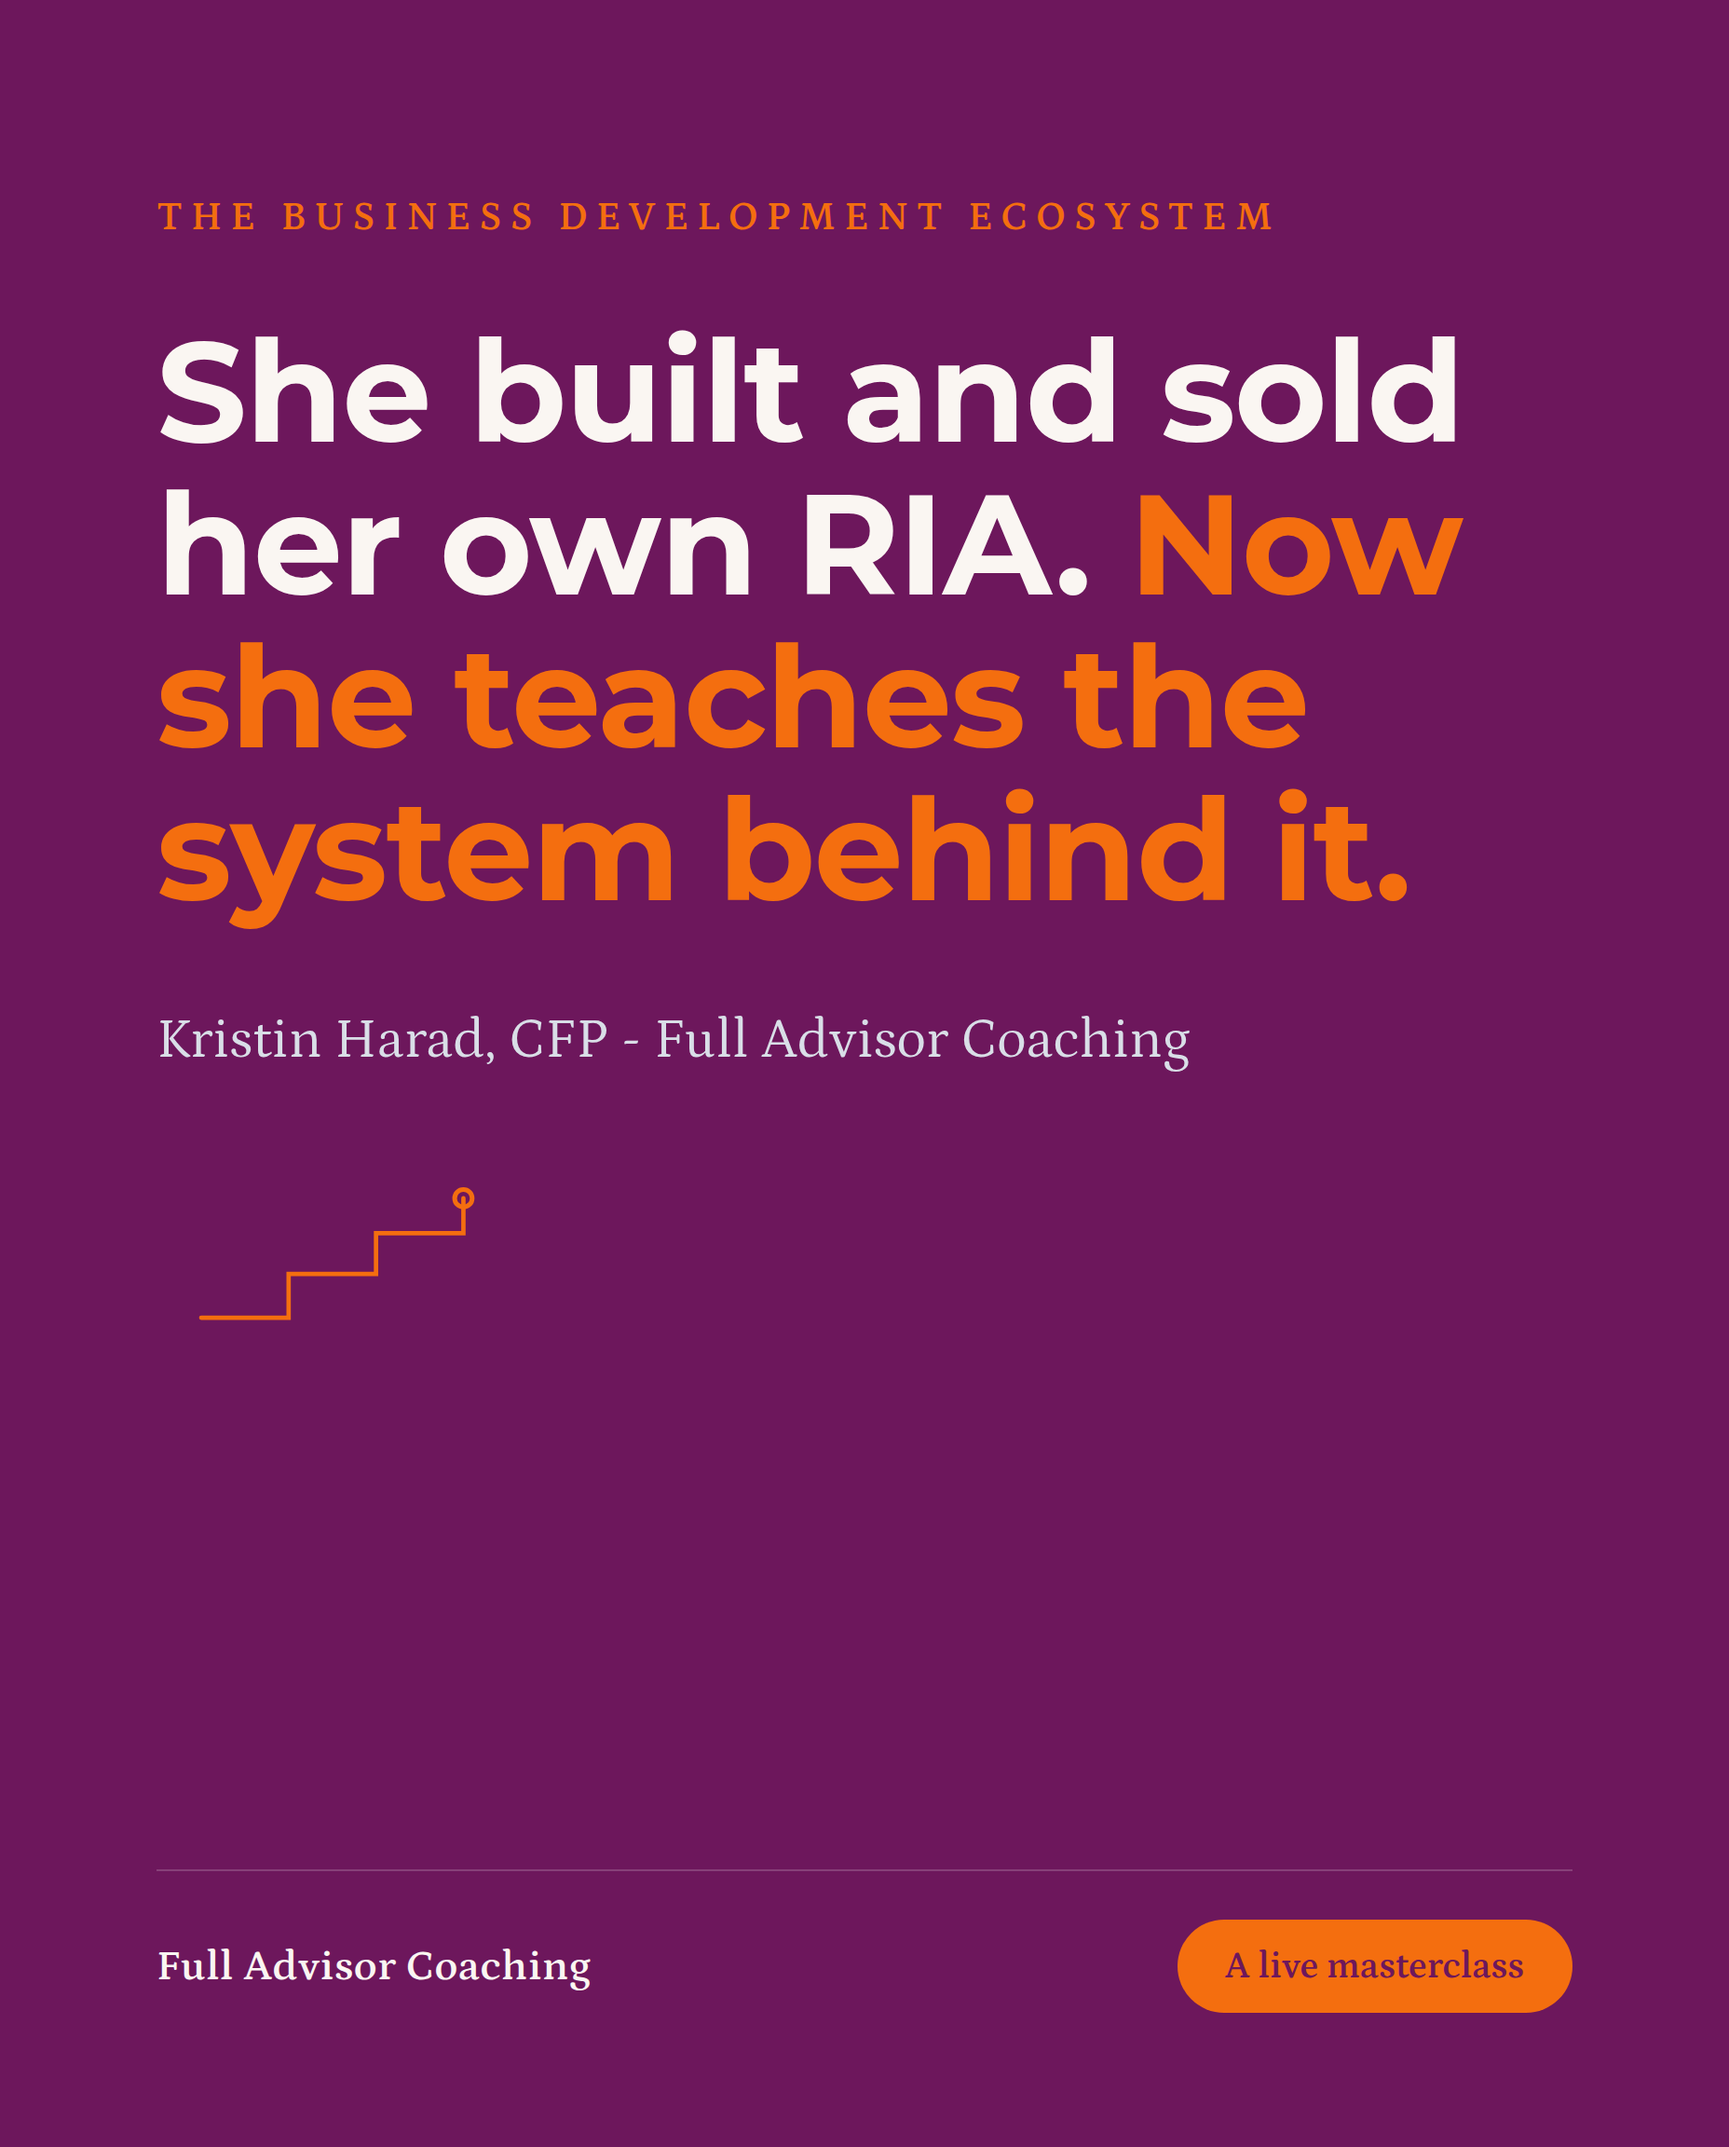
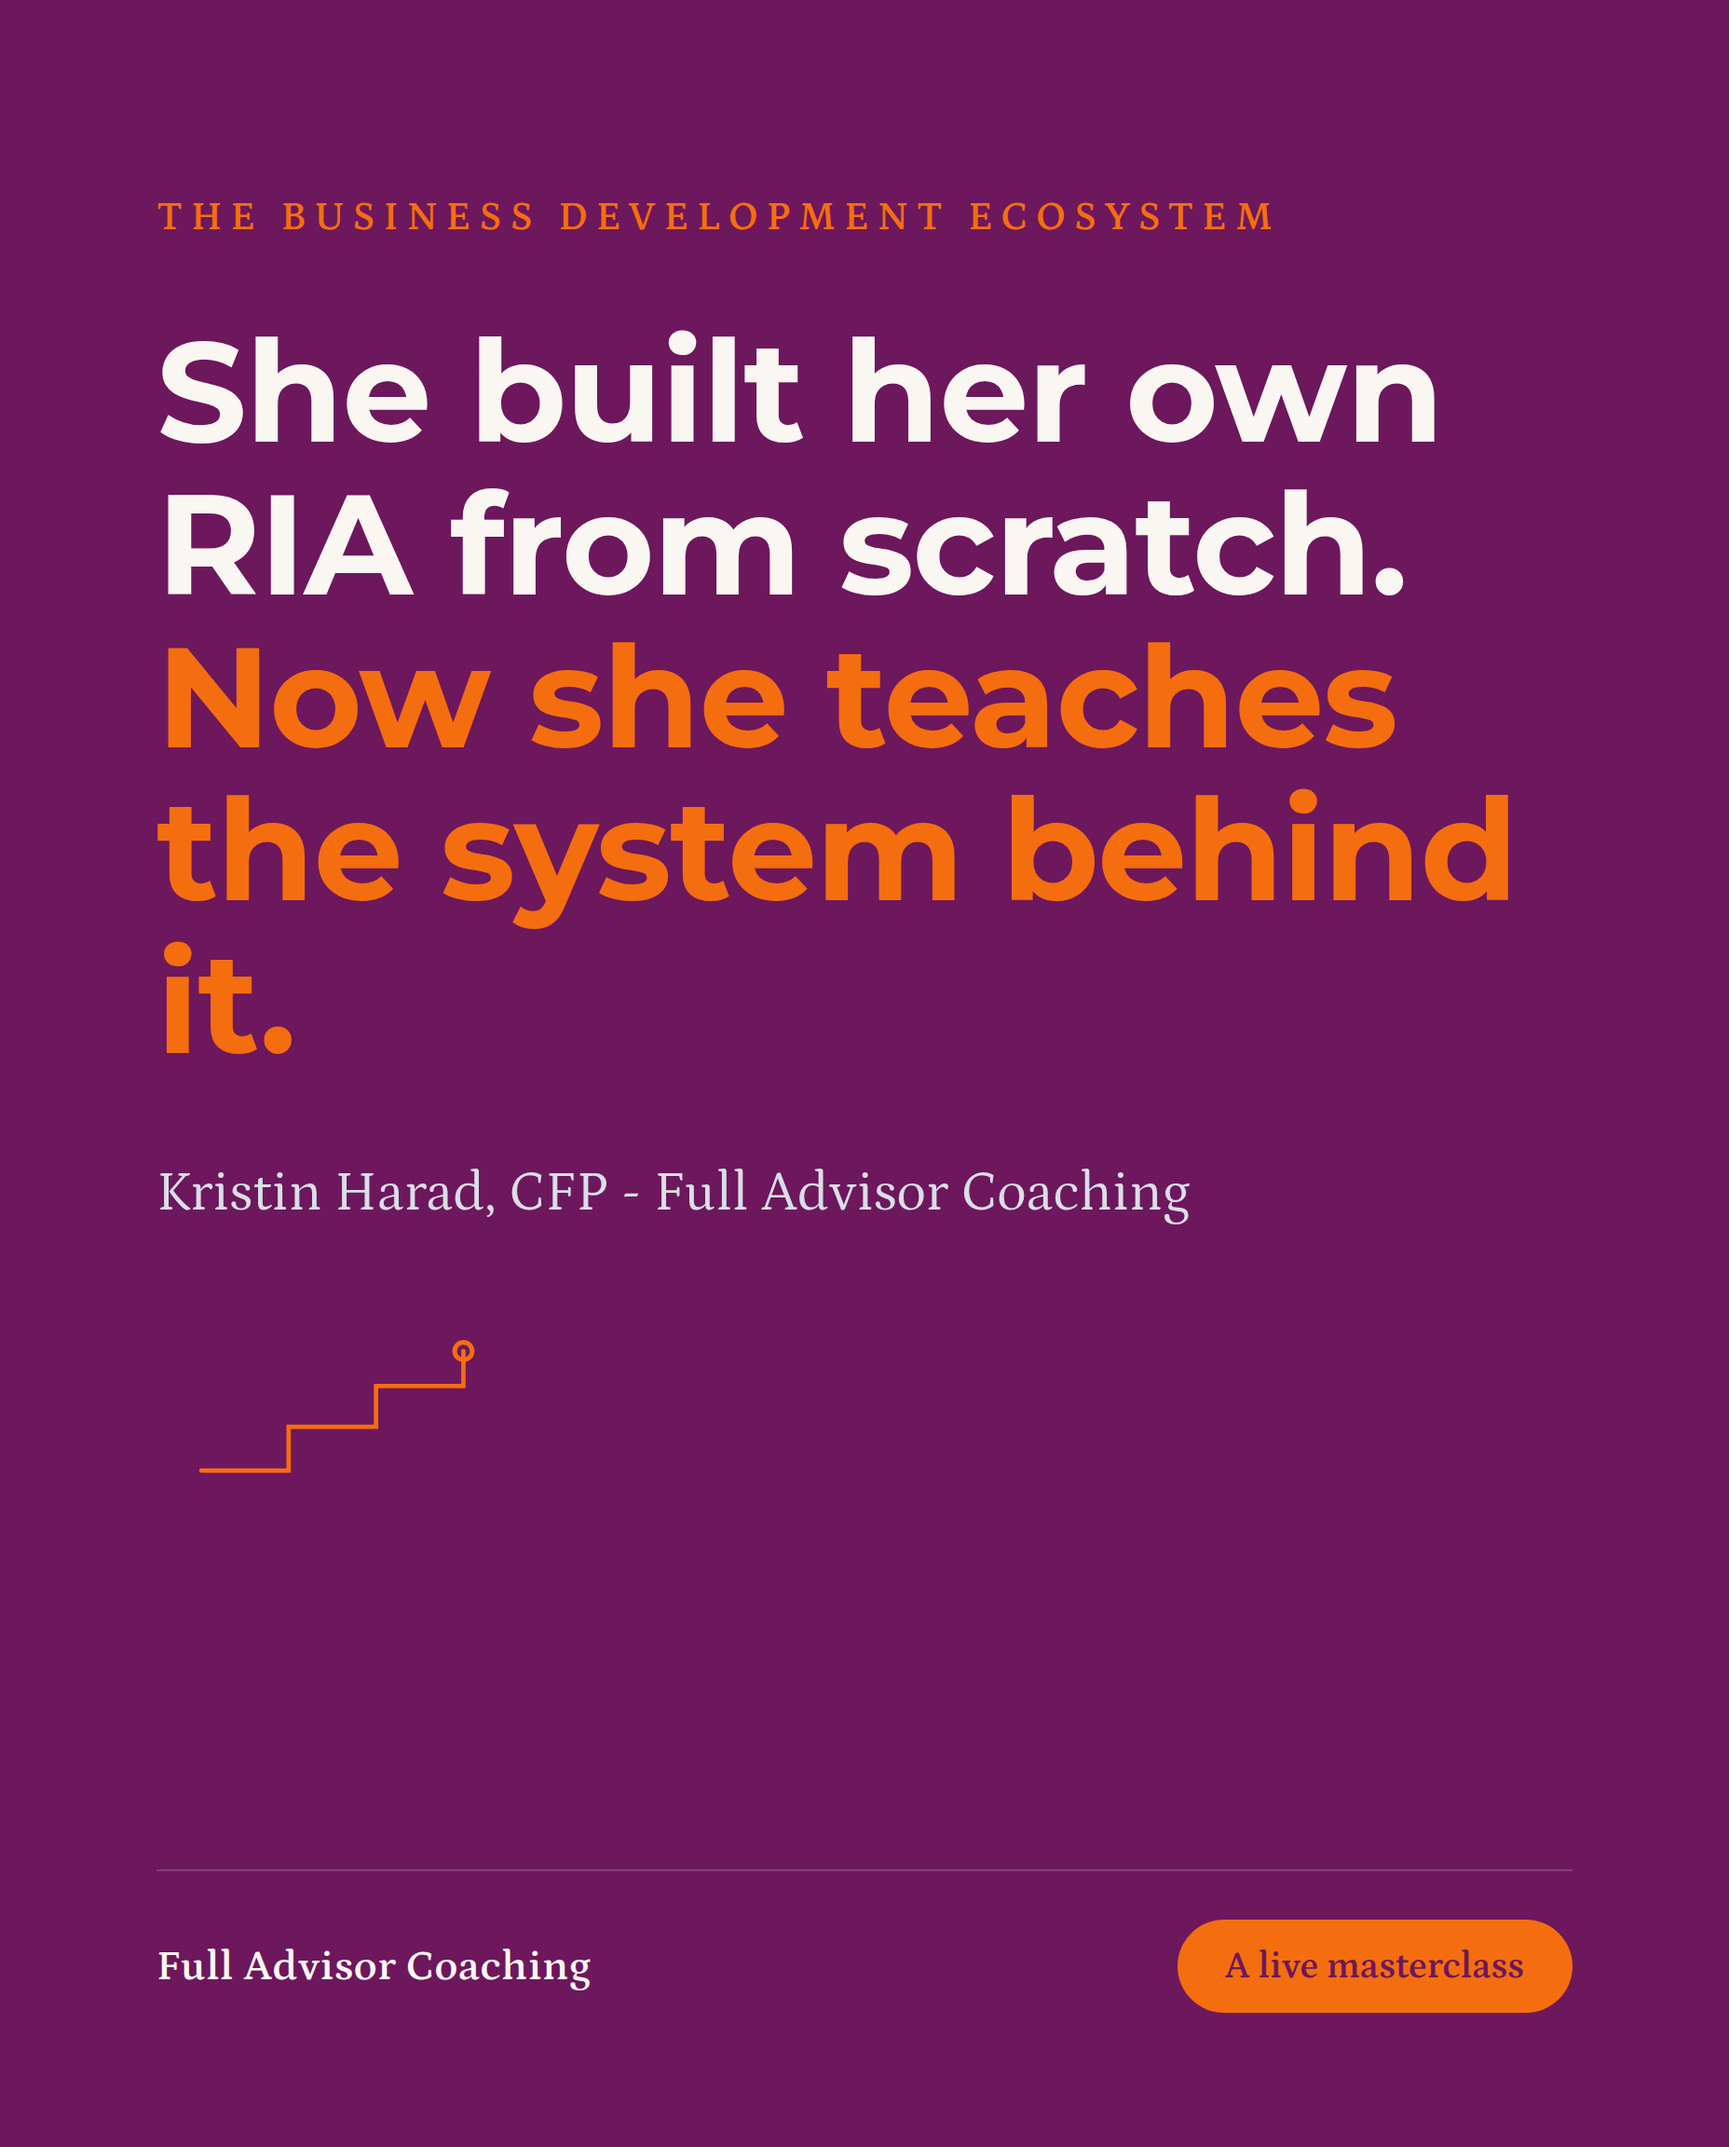
showcase: kristin-harad

diff --git a/kristin-harad/index.html b/kristin-harad/index.html
@@ -70,7 +70,7 @@
   </div>
 
   <h1>The Business Development Ecosystem</h1>
-  <p class="framing">Here is what I mentioned in my email: the masterclass, the numbers, and the auction data that did not fit in the message. You already built the hard part: the Business Development Ecosystem framework, the free map that goes with it, and the credibility of having built and sold your own RIA. <strong>What you don't have is a system to bring in advisors who have never heard of you and convert them into Solo Advisor Coaching or Enterprise Team Coaching clients. This is that system.</strong></p>
+  <p class="framing">Here is what I mentioned in my email: the masterclass, the numbers, and the auction data that did not fit in the message. You already built the hard part: the Business Development Ecosystem framework, the free map that goes with it, and the credibility of having built your own RIA from scratch. <strong>What you don't have is a system to bring in advisors who have never heard of you and convert them into Solo Advisor Coaching or Enterprise Team Coaching clients. This is that system.</strong></p>
 
   <div class="section">
     <div class="section-label">The masterclass, already built</div>
@@ -93,7 +93,7 @@
   <div class="section">
     <div class="section-label">What the paid engine could produce</div>
     <h2>The numbers</h2>
-    <p>Estimates from education businesses running paid traffic into a masterclass, scoped to a financial-advisor audience and anchored to your published $800/month Solo Advisor Coaching price. Actuals would calibrate to your real numbers after the first month.</p>
+    <p>Estimates from education businesses running paid traffic into a masterclass, scoped to a financial-advisor audience and anchored to the $800/month Solo Advisor Coaching price most recently published on your site. Actuals would calibrate to your real numbers after the first month.</p>
     <table>
       <thead>
         <tr><th>Metric</th><th>Conservative</th><th>Moderate</th></tr>
@@ -109,7 +109,7 @@
         <tr class="hl"><td>New revenue added each month</td><td>~$800 / mo</td><td>~$1,600 / mo</td></tr>
       </tbody>
     </table>
-    <p class="fn">The revenue row uses only your published $800/month Solo Advisor Coaching price. Because every client carries a 6-month minimum, a single enrollment is worth at least $4,800, and Enterprise Team Coaching enrollments (priced by quote, not shown here) would add more on top. Your Request-a-Call process and your enrollment process both stay exactly as they are.</p>
+    <p class="fn">The revenue row uses the $800/month Solo Advisor Coaching price most recently published on your site (adjust if it has since changed). Because every client carries a 6-month minimum, a single enrollment is worth at least $4,800, and Enterprise Team Coaching enrollments (priced by quote, not shown here) would add more on top. Your Request-a-Call process and your enrollment process both stay exactly as they are.</p>
   </div>
 
   <div class="section">

diff --git a/kristin-harad/deck.html b/kristin-harad/deck.html
@@ -97,7 +97,7 @@ const S = [
  {t:'normal',k:'Who this is for',title:'Solo advisors and advisory teams who already have clients and a practice.',body:'Just no system connecting how they get clients, close them, and keep them.'},
  {t:'normal',k:'What you’ll walk away with',title:'A different way to see your own business development.',body:'The reframe, the three pillars, and the feedback loop that ties them together.'},
  {t:'normal',k:'An honest note',title:'This is education, not a guarantee.',body:'Every practice is different. What matters is the version of this that fits yours.',disc:'Coaching is educational and is not a guarantee of revenue, client growth, or business results. Results vary by advisor.'},
- {t:'normal',k:'Who’s teaching this',title:'Kristin Harad, CFP®, founder of Full Advisor Coaching.',body:'Years in financial-services marketing at Visa, Charles Schwab, and JPMorgan Chase, then she built VitaVie Financial Planning, a fee-only RIA, from zero to six figures in under three years, and sold it. Coaching advisors full time since 2014. Host of Full Advisor Coaching, the podcast, a Kitces Top 5 pick in practice management.'},
+ {t:'normal',k:'Who’s teaching this',title:'Kristin Harad, CFP, founder of Full Advisor Coaching.',body:'Years in financial-services marketing at Visa, Charles Schwab, and JPMorgan Chase, then she built VitaVie Financial Planning, a fee-only RIA, from zero to six figures in under three years, entirely from scratch. Coaching advisors full time since 2014. Host of Full Advisor Coaching, the podcast, a Kitces Top 5 pick in practice management.'},
 
  {t:'section',idx:'Part One',title:'The Silo Trap'},
  {t:'normal',k:'The trap',title:'Most practices run marketing, sales, and client experience as three separate jobs.'},
